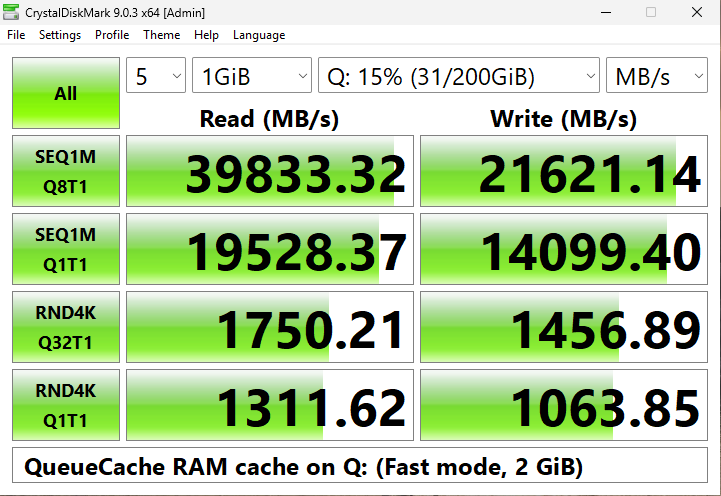
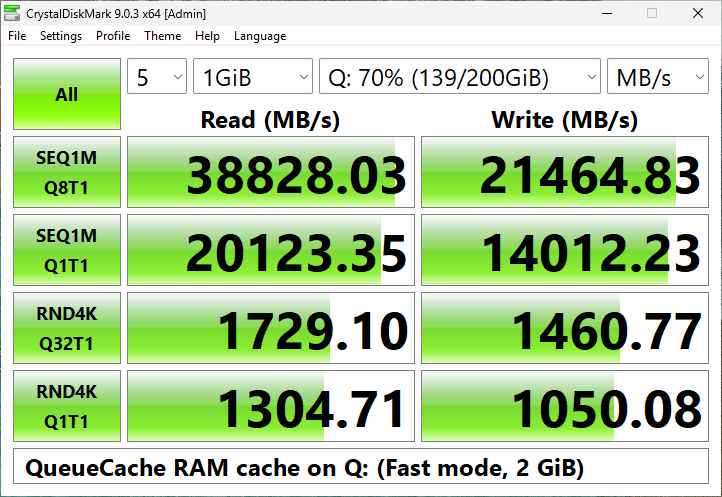
Redo the README benchmarks on 0.4.476.1
CrystalDiskMark 9.0.3 on the VM, same method (docs/BENCHMARKING.md), better of
two runs per column in one session. Q: with a 2 GiB Fast cache: 38,828/21,465
MB/s SEQ1M Q8 read/write, 1,305/1,050 RND4K Q1 (was 39,833/21,621, 1,312/1,064).
4 GiB RAM disk: 25,353/23,266, 1,641/1,317 (was 26,496/24,627, 1,688/1,325).
Q: without cache: 594/112, 9.0/1.2 (was 629/245, 19.5/4.8): the network
storage itself was slower this evening. Read recall does not change these
results: the 1 GiB test file fits in the cache.

diff --git a/docs/BENCHMARKING.md b/docs/BENCHMARKING.md
@@ -43,6 +43,7 @@ CrystalDiskMark screenshots are redone. For QueueCache's own verification suites
 | **Right after a restart.** Windows' startup work (Defender, indexing) still running. | Lower and noisier results. | Wait at least 15 minutes after a restart; check the processor is idle. |
 | **Other programs.** A second benchmark, a game launcher updating, a VM host busy. | Lower results. | Close them; on a VM, check the host's load. |
 | **A notification over the window** (AutoPlay when a RAM disk appears). | Covers part of the screenshot. | Dismiss it before capturing. |
+| **Network storage speed changes.** Q: is a virtual disk on shared network storage. | Q: without cache wrote 245 MB/s (SEQ1M Q8T1) on the morning of 2026-10-09 and 112 MB/s that evening; cached and RAM-disk results stayed within 6%. | Measure all three columns in one session, and compare uncached numbers only within a session. |
 
 Keep preparation and machine conditions consistent: CrystalDiskMark's first
 pass reads while the freshly written test file is still being written to the
@@ -88,8 +89,17 @@ session, not in an SSH session:
   (`SetCursorPos` and `mouse_event` from user32, `SendKeys` for typing) does.
   In SendKeys text, `(` `)` `+` `^` `%` `~` must be escaped as `{(}` and so on.
 - Close CrystalDiskMark with its own close button so it saves its settings.
+- Read the scores from the window's UI Automation tree (each score box's name is
+  its value) rather than with Ctrl+C: the clipboard came back empty from a
+  scheduled task.
 - Screenshots can come from the hypervisor console (a whole-screen capture,
-  then cropped to the window).
+  then cropped to the window), or from the user's session with
+  `CopyFromScreen` over the window's visible frame (`DwmGetWindowAttribute`
+  with `DWMWA_EXTENDED_FRAME_BOUNDS`; `GetWindowRect` also includes Windows'
+  invisible resize border, which shows a strip of desktop).
+- From an SSH PowerShell session with `$ErrorActionPreference = 'Stop'`, run
+  `qcache disk create` through `cmd /c "... 2>&1"`: its progress lines go to
+  stderr, and PowerShell otherwise stops the script at the first one.
 
 These helpers are lab tooling and are not part of the repository.
 

diff --git a/README.md b/README.md
@@ -75,7 +75,7 @@ machine's physical RAM.
 ## Performance
 
 [CrystalDiskMark](https://crystalmark.info/en/software/crystaldiskmark/) 9.0.3,
-default test (1 GiB, 5 passes); with QueueCache, the best of two runs.
+default test (1 GiB, 5 passes), the better of two runs per column, QueueCache 0.4.476.1.
 
 | Test machine | |
 |---|---|
@@ -90,13 +90,15 @@ default test (1 GiB, 5 passes); with QueueCache, the best of two runs.
 
 | MB/s | Q: without cache | Q: with 2 GiB Fast cache | 4 GiB RAM disk |
 |---|---:|---:|---:|
-| Sequential read (SEQ1M Q8T1) | 629 | 39,833 | 26,496 |
-| Sequential write (SEQ1M Q8T1) | 245 | 21,621 | 24,627 |
-| Random 4K read (RND4K Q1T1) | 19.5 | 1,312 | 1,688 |
-| Random 4K write (RND4K Q1T1) | 4.8 | 1,064 | 1,325 |
+| Sequential read (SEQ1M Q8T1) | 594 | 38,828 | 25,353 |
+| Sequential write (SEQ1M Q8T1) | 112 | 21,465 | 23,266 |
+| Random 4K read (RND4K Q1T1) | 9.0 | 1,305 | 1,641 |
+| Random 4K write (RND4K Q1T1) | 1.2 | 1,050 | 1,317 |
 
 The test file fits in RAM, so this shows what QueueCache does for data that is
-in its cache. Work larger than the cache runs at the drive's own speed.
+in its cache. Work larger than the cache runs at the drive's own speed, which on
+this network storage varies (earlier the same day it wrote 245 MB/s
+sequentially); all three columns come from the same session.
 [How these were measured](docs/BENCHMARKING.md).
 
 ## Getting started
